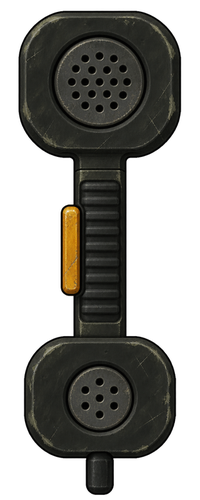
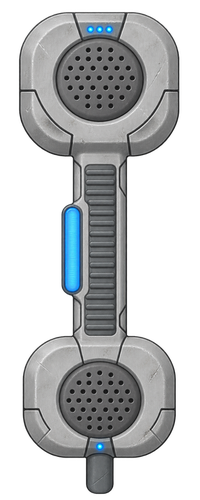
Comms radio: light grey kit with blue LED accents, larger handset
The dark handset and olive pack blended into the armour. Handset, coil cord and pack are now light grey with blue LED accents (geometry-first reskin, prompts and raws retained); handset layer grows to 0.20 x 0.50 shoulders and the cord to 0.06.

diff --git a/art-source/templates/comms-radio-guide.py b/art-source/templates/comms-radio-guide.py
@@ -13,7 +13,7 @@ is transparent.
                                  Drawn at the carrier layer's 0.40 x 0.42 shoulder aspect.
   comms-radio-handset-guide.png  320x800: the hand set -- a flared earpiece on top, a narrow grip with
                                  a press-to-talk bar, a flared mouthpiece below and the cord stub at
-                                 the bottom end. Drawn at 0.16 x 0.40 shoulder aspect.
+                                 the bottom end. Drawn at 0.20 x 0.50 shoulder aspect.
   comms-radio-icon-guide.png     1024x1024: the same set as an inventory icon -- the pack standing
                                  upright, its face with a dial, two knobs and a speaker grille, the
                                  handset hanging from a coiled cord and the antenna whip.
@@ -26,33 +26,35 @@ from PIL import Image, ImageDraw
 
 ROOT = Path(__file__).resolve().parents[2]
 OUT = ROOT / 'art-source/templates'
+LED = '#2f9bff'      # the kit's electronic LED accent: blue
+GREY = '#aeb6bc'     # light grey body: reads against every armour family and helmet
 
 
-def whip(d, base, tip, w0, w1):
+def whip(d, base, tip, w0, w1, tip_fill='#c9962a'):
     dx, dy = tip[0] - base[0], tip[1] - base[1]
     n = math.hypot(dx, dy)
     px, py = -dy / n, dx / n
     d.polygon([(base[0] + px * w0, base[1] + py * w0), (base[0] - px * w0, base[1] - py * w0),
                (tip[0] - px * w1, tip[1] - py * w1), (tip[0] + px * w1, tip[1] + py * w1)], fill='#2a2f2c')
-    d.ellipse((tip[0] - w1 * 2, tip[1] - w1 * 2, tip[0] + w1 * 2, tip[1] + w1 * 2), fill='#c9962a')
+    d.ellipse((tip[0] - w1 * 2, tip[1] - w1 * 2, tip[0] + w1 * 2, tip[1] + w1 * 2), fill=tip_fill)
 
 
 def pack():
     W, H = 800, 840
     im = Image.new('RGBA', (W, H))
     d = ImageDraw.Draw(im)
-    d.rounded_rectangle((70, 40, 730, 720), 70, fill='#3d4a3a')                       # pack body
+    d.rounded_rectangle((70, 40, 730, 720), 70, fill='#8f989e')                       # pack body
     d.rectangle((150, 40, 250, 130), fill='#1d2220')                                  # strap roots against the torso
     d.rectangle((550, 40, 650, 130), fill='#1d2220')
-    d.rounded_rectangle((110, 140, 690, 430), 40, fill='#4f5e49')                     # buckled top flap
+    d.rounded_rectangle((110, 140, 690, 430), 40, fill='#aab3b9')                     # buckled top flap
     for x in (270, 530):
-        d.rectangle((x - 24, 400, x + 24, 470), fill='#6b5a3a')                       # flap straps
+        d.rectangle((x - 24, 400, x + 24, 470), fill='#d4dade')                       # flap straps
         d.rounded_rectangle((x - 34, 450, x + 34, 494), 10, fill='#2a2f2c')           # buckles
-    d.rounded_rectangle((130, 510, 670, 690), 36, fill='#46543f')                     # lower pocket
-    d.rounded_rectangle((10, 190, 80, 430), 26, fill='#2f3530')                       # empty handset cradle on the left
+    d.rounded_rectangle((130, 510, 670, 690), 36, fill='#9aa3a9')                     # lower pocket
+    d.rounded_rectangle((10, 190, 80, 430), 26, fill='#4a5560')                       # empty handset cradle on the left
     d.ellipse((26, 280, 86, 340), fill='#1d2220')                                     # cord socket
     d.ellipse((560, 640, 660, 740), fill='#23282a')                                   # antenna socket
-    whip(d, (620, 700), (760, 824), 22, 9)
+    whip(d, (620, 700), (760, 824), 22, 9, LED)
     im.save(OUT / 'comms-radio-pack-guide.png')
 
 
@@ -60,11 +62,11 @@ def handset():
     W, H = 320, 800
     im = Image.new('RGBA', (W, H))
     d = ImageDraw.Draw(im)
-    d.rounded_rectangle((120, 190, 200, 590), 30, fill='#2f3530')                     # grip
-    d.rounded_rectangle((30, 20, 290, 250), 80, fill='#2f3530')                       # earpiece cup
-    d.rounded_rectangle((40, 540, 280, 730), 70, fill='#2f3530')                      # mouthpiece
-    d.rounded_rectangle((100, 330, 130, 470), 12, fill='#c9962a')                     # press-to-talk bar
-    d.rounded_rectangle((140, 725, 180, 790), 16, fill='#1d2220')                     # cord stub
+    d.rounded_rectangle((120, 190, 200, 590), 30, fill=GREY)                     # grip
+    d.rounded_rectangle((30, 20, 290, 250), 80, fill=GREY)                       # earpiece cup
+    d.rounded_rectangle((40, 540, 280, 730), 70, fill=GREY)                      # mouthpiece
+    d.rounded_rectangle((100, 330, 130, 470), 12, fill=LED)                     # press-to-talk bar (blue LED strip)
+    d.rounded_rectangle((140, 725, 180, 790), 16, fill='#6e777d')                     # cord stub
     im.save(OUT / 'comms-radio-handset-guide.png')
 
 
@@ -78,9 +80,9 @@ def cord():
     for i in range(H * S):
         t = i / (H * S - 1)
         pts.append((W * S / 2 + math.sin(t * coils * math.tau) * W * S * 0.26, i))
-    d.line(pts, fill='#0d0f0e', width=int(W * S * 0.30), joint='curve')
-    d.line(pts, fill='#1f2522', width=int(W * S * 0.18), joint='curve')
-    d.line([(x - 4, y) for x, y in pts], fill='#3b4640', width=int(W * S * 0.05), joint='curve')
+    d.line(pts, fill='#4b545a', width=int(W * S * 0.30), joint='curve')
+    d.line(pts, fill='#b9c1c6', width=int(W * S * 0.18), joint='curve')
+    d.line([(x - 4, y) for x, y in pts], fill='#eef2f4', width=int(W * S * 0.05), joint='curve')
     im = im.resize((W, H), Image.LANCZOS)
     out = ROOT / 'mod/graphics/battle/fx/comms-radio-cord.png'
     im.save(out)

diff --git a/art-source/comms-radio/export.py b/art-source/comms-radio/export.py
@@ -7,7 +7,7 @@ grown guide silhouette so a drifted edge cannot add material the geometry never 
 downsampled to game scale.
 
   graphics/battle/fx/comms-radio-pack.png     the pack as worn from above, 320x336 = the carrier layer's 0.40 x 0.42 aspect
-  graphics/battle/fx/comms-radio-handset.png  the hand set, 200x500 = the handset layer's 0.16 x 0.40 aspect
+  graphics/battle/fx/comms-radio-handset.png  the hand set, 200x500 = the handset layer's 0.20 x 0.50 aspect
   (graphics/battle/fx/comms-radio-cord.png is drawn finished by templates/comms-radio-guide.py)
   graphics/ui/armory/special-comms-radio.png  the set as an icon, cropped square about its alpha, 512 px
 """

diff --git a/art-source/geometry-first-imagegen.md b/art-source/geometry-first-imagegen.md
@@ -85,7 +85,7 @@ Keep source inputs out of `mod/`; only exported art and its runtime catalog ship
 | Ground-defence structures | `art-source/templates/defence-structures-guide.py`; static 3x3 plinths, a rotating gun house with barrel recoil layer, a spinning emitter ring and a tint-by-holder core, pivots at canvas centre; exporter splits and registers mechanically (Codex CLI: `art-source/defences/generate.sh`) | `templates/defence-structures-*.py`, `templates/fortress-battery-*-guide.png`, `templates/shield-generator-*-guide.png`, `defences/*.prompt.txt`, `defences/raw/` | `turrets`, `fortress-battery`, `shield-dome` |
 | Fort earthworks | `art-source/templates/fort-earthworks-guide.py`; sixteen trench sections addressed by open-arm mask (channel 30%-70% at every edge so neighbours join), eight thick sandbag runs and corners, concertina wire and a hedgehog on 192px full-cell frames (Codex CLI: `art-source/tilesets/generate-fort-earthworks.sh`); the wire is then reskinned bolder (`templates/fort-wire-guide.py`, `tilesets/generate-fort-wire.sh`) and `composite-fort-wire.py` lays it over `fort-wire-sources/fort-earthworks.v1.png` | `templates/fort-earthworks-guide.*`, `templates/fort-wire-guide.*`, `tilesets/fort-earthworks.*`, `tilesets/fort-wire.*` | `battery-fort-map` |
 | Fort buildings | `art-source/templates/fort-buildings-guide.py`; per aspect, four panels (intact roof, damaged, destroyed wreck, lights overlay) on the building's interior floor rectangle at one pixel scale, a parts sheet (spinning radar and fans, 3x3 interior bases) and a gatehouse sheet; exporter crops mechanically at 64 px/cell (Codex CLI: `art-source/fort-buildings/generate.sh <asset>`) | `templates/fort-buildings-*-guide.png`, `fort-buildings/prompts/`, `fort-buildings/raw/`, `fort-buildings/export.py` | `battery-fort-map` |
-| Comms radio | `art-source/templates/comms-radio-guide.py`; a top-down worn pack (0.40 x 0.42 shoulder body mount: top edge against the torso, flap, buckles, empty handset cradle, short rear whip) and a separate hand set (0.16 x 0.40: earpiece, grip with talk bar, mouthpiece, cord stub) raised only during the call, joined by a code-drawn coiled cord stretched between the two ports; plus an upright icon (Codex CLI: `art-source/comms-radio/generate.sh <asset>`, mechanical export by `export.py`) | `templates/comms-radio-*-guide.png`, `comms-radio/*.prompt.txt`, `comms-radio/raw/`, `comms-radio/export.py` | `armory`, `layers`, `equipment-mounts` |
+| Comms radio | `art-source/templates/comms-radio-guide.py`; a top-down worn pack (0.40 x 0.42 shoulder body mount: top edge against the torso, flap, buckles, empty handset cradle, short rear whip) and a separate hand set (0.20 x 0.50: earpiece, grip with talk bar, mouthpiece, cord stub) raised only during the call, joined by a code-drawn coiled cord stretched between the two ports; plus an upright icon (Codex CLI: `art-source/comms-radio/generate.sh <asset>`, mechanical export by `export.py`) | `templates/comms-radio-*-guide.png`, `comms-radio/*.prompt.txt`, `comms-radio/raw/`, `comms-radio/export.py` | `armory`, `layers`, `equipment-mounts` |
 | Ship openings and decks | `ShipInteriorMaterialTemplate`; full-cell cardinal openings and seamless resin samples | `templates/ship-interior-materials.png`, `tilesets/ship-interior-materials.*` | `ship-materials` |
 
[1 lines of base64/hex data omitted]
